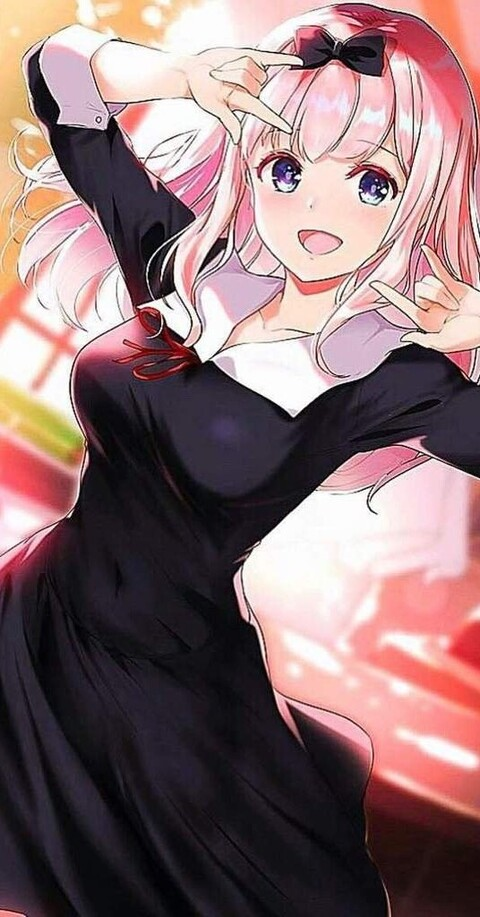
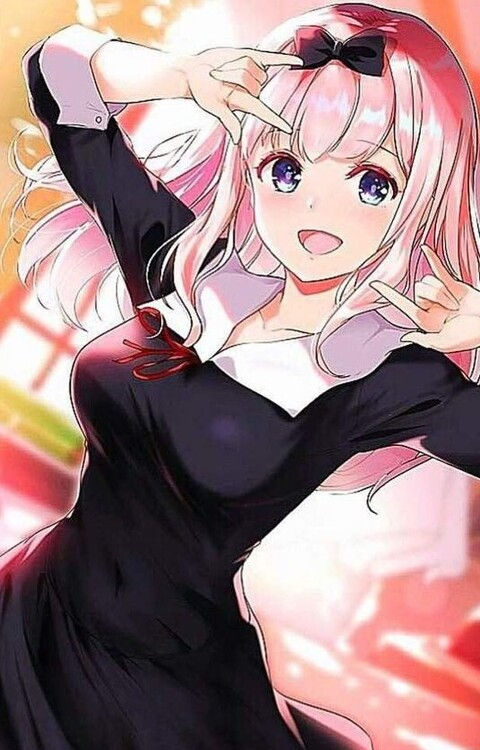
white bg header and footer

diff --git a/style.css b/style.css
@@ -4,9 +4,12 @@
 }
 
 body {
+    margin: 0;
+    padding: 0;
     background:
     url(images/chika1.png) top left/60vh 100vh repeat-y fixed, 
     url(images/chika2.png) top right/60vh 100vh repeat-y fixed;
+    background-size:  auto 100%;
 }
 
 .container {
@@ -14,7 +17,7 @@ body {
     flex-direction: column;
     margin: 0 auto;
     padding: 8px;
-    max-width: 720px;
+    max-width: 770px;
     box-shadow: 0 0 4px black;
     color:rgb(48, 48, 48);
     background-color: white;
@@ -31,6 +34,7 @@ header {
     font-size: 32px;
     height: 32px;
     border-radius: 8px;
+    background-color: rgba(255, 255, 255, 1);
 }
 
 .content {
@@ -60,6 +64,7 @@ footer {
     padding: 12px;
     height: 32px;
     border-radius: 8px;
+    background-color: rgba(255, 255, 255, 1);
 }
 
 a {
@@ -90,10 +95,16 @@ button {
     background-color: white;
     padding: 4px;
     margin: 8px 0;
-    /* border: 1px solid rgb(64, 128, 64); */
+    border: 1px solid rgb(64, 128, 64);
     border-color: rgb(64, 128, 64);
     color: rgb(64, 128, 64);
     padding: 9.5px;
+    cursor: pointer;
+}
+
+button:hover {
+    color: white;
+    background-color: rgb(64, 128, 64);
 }
 
 .form_hello {
@@ -103,23 +114,25 @@ button {
 
 .form_hello p{
     margin: 4px 0;
+    text-align: center;
 }
 
 .text-align-center {
     text-align: center;
 }
 
-@media (max-width: 750px) {
+@media (max-width: 800px) {
     .flex_cont {
         flex-direction: column;
     }
     
     body {
         background: url(images/chika1.png) top left/100% repeat-y fixed;
+        background-size: 100% auto;
     }
 
     .container {
-        opacity: 0.85;
+        background-color: rgba(255, 255, 255, 0.85);
     }
 
     p {

diff --git a/scripts/randomBG.js b/scripts/randomBG.js
@@ -12,11 +12,14 @@ while (firstRandImg == secondRandImg) {
 }
 
 function getRandFon() {
-    if(window.matchMedia('(max-width: 750px)').matches){
+    if(window.matchMedia('(max-width: 800px)').matches){
         document.getElementById('body').style.background = "url(images/chika" + firstRandImg + ".png) top left/100% repeat-y fixed";
+        document.getElementById('body').style.backgroundSize = "100% auto";
     } else {
         document.getElementById('body').style.background = "url(images/chika" + firstRandImg + ".png) top left/60vh 100vh repeat-y fixed, url(images/chika" + secondRandImg + ".png) top right/60vh 100vh repeat-y fixed";
+        document.getElementById('body').style.backgroundSize = "auto 100%";
     }
+
 }
 
 document.addEventListener("DOMContentLoaded", function()

diff --git a/scripts/spamer.js b/scripts/spamer.js
@@ -1,4 +1,4 @@
-const SPAM_COUNT = 10;
+const SPAM_COUNT = 7;
 
 function spam(count) {
     for (let i = 0; i < count; i++) {
